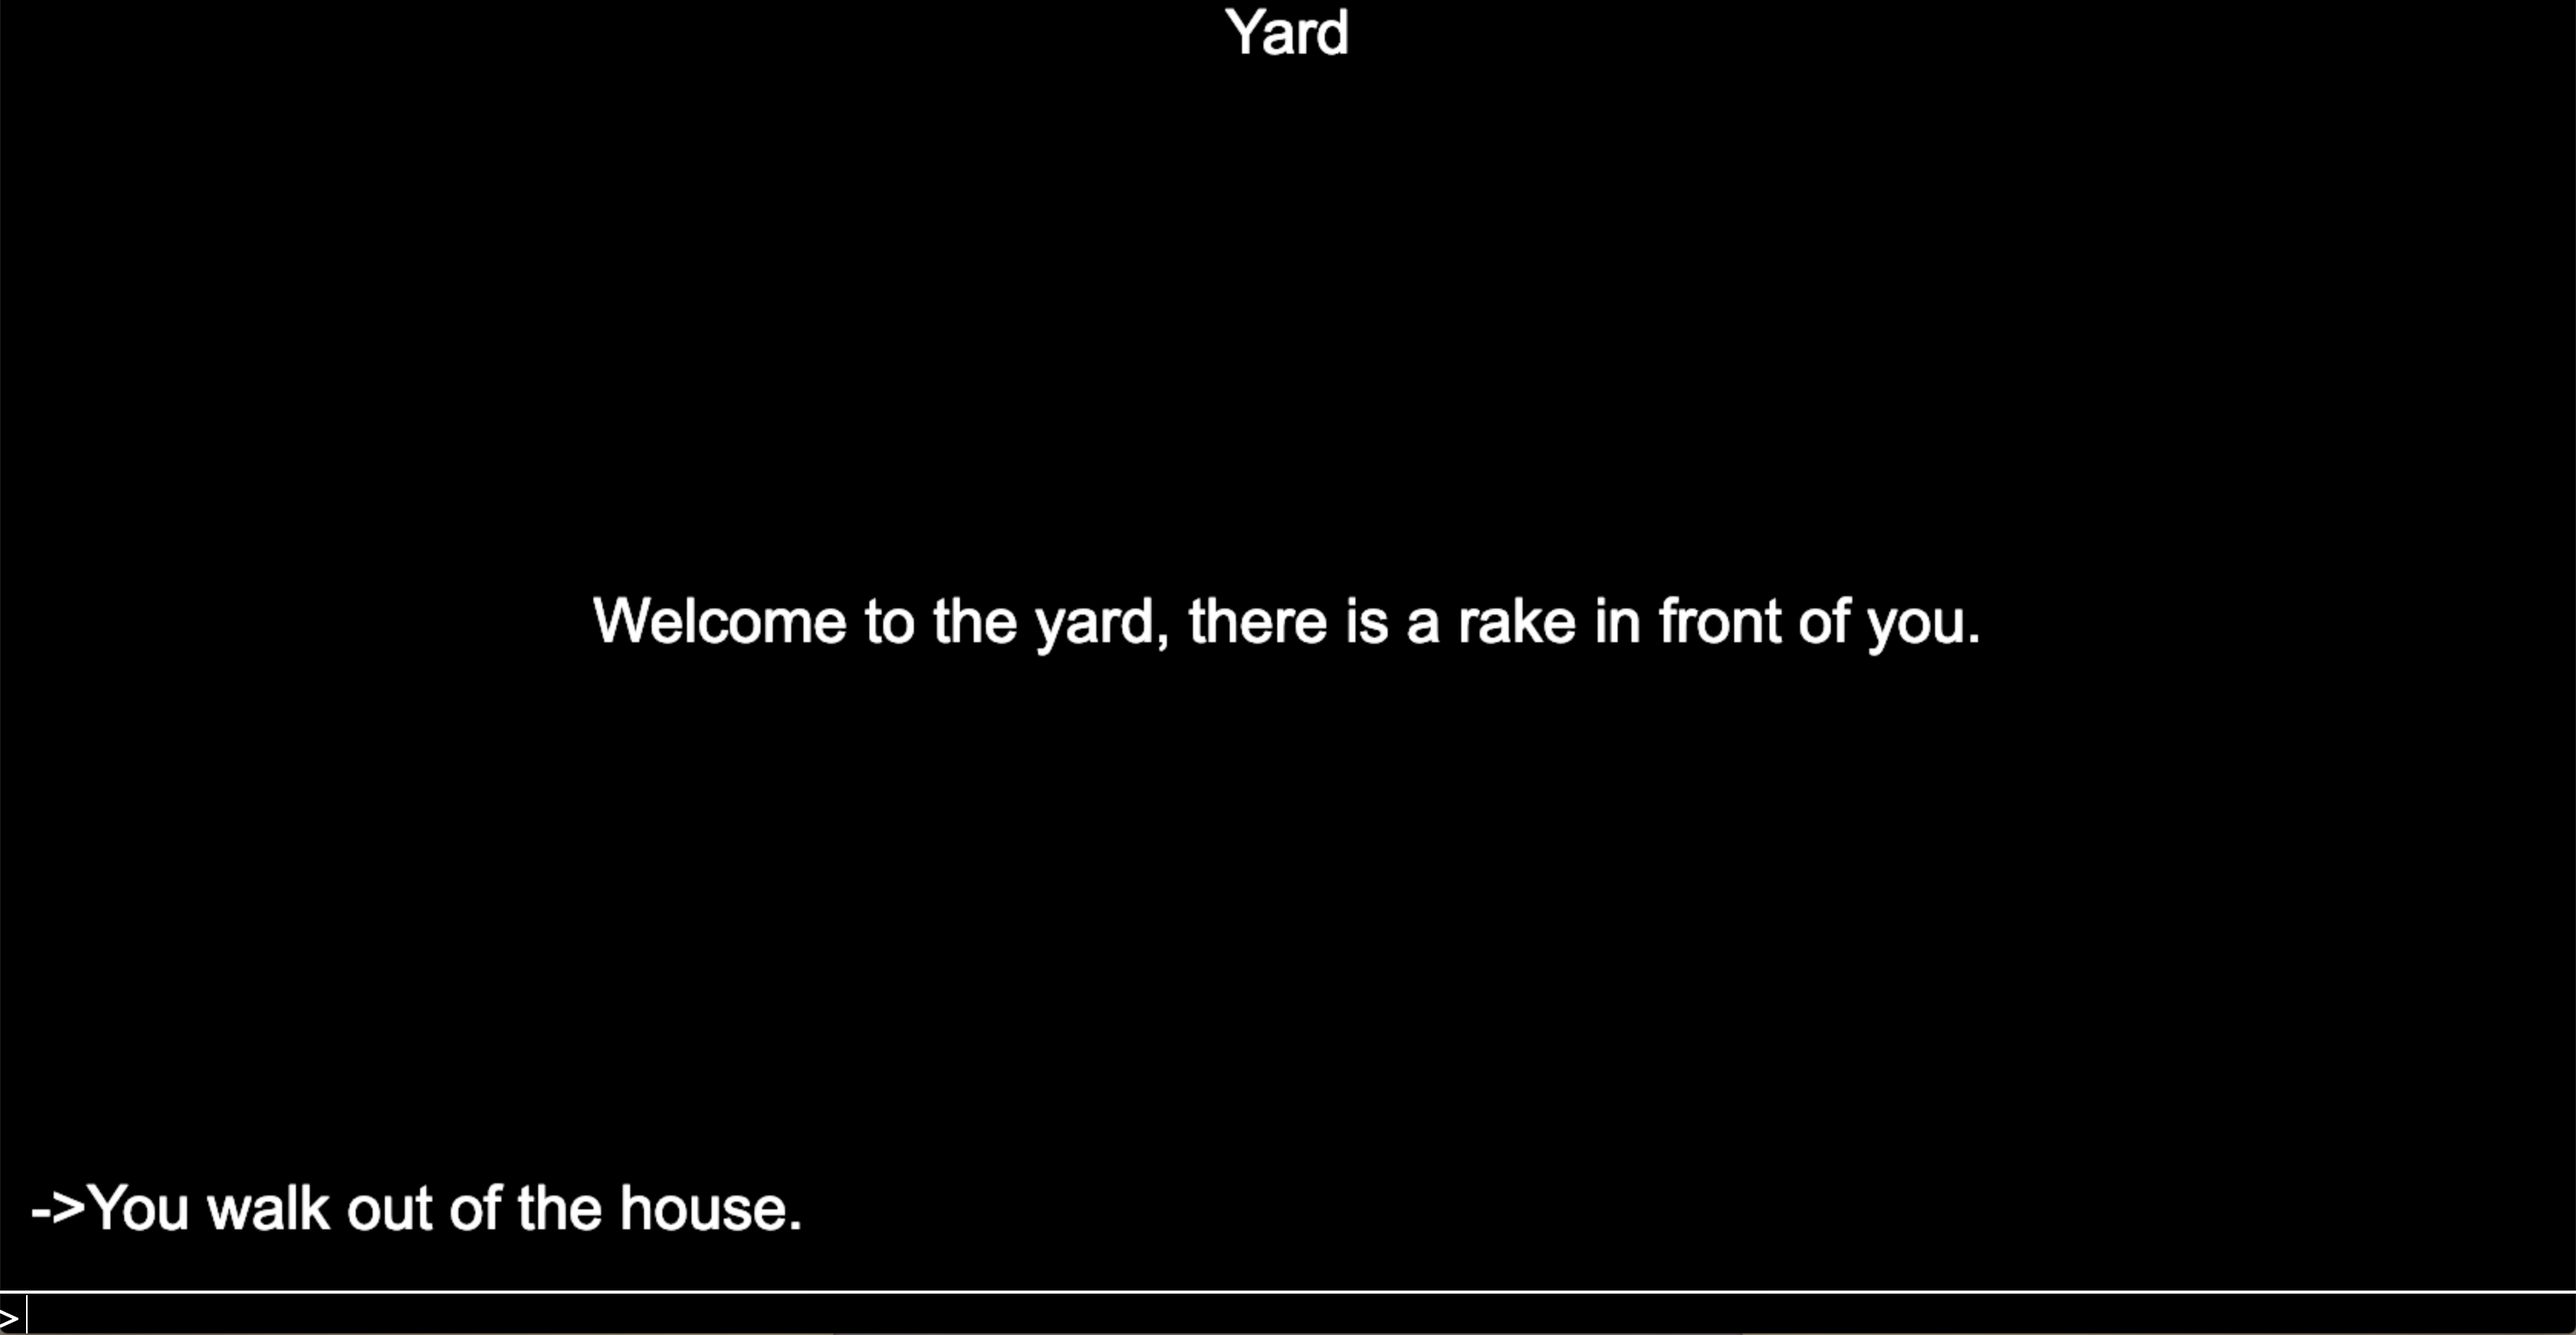
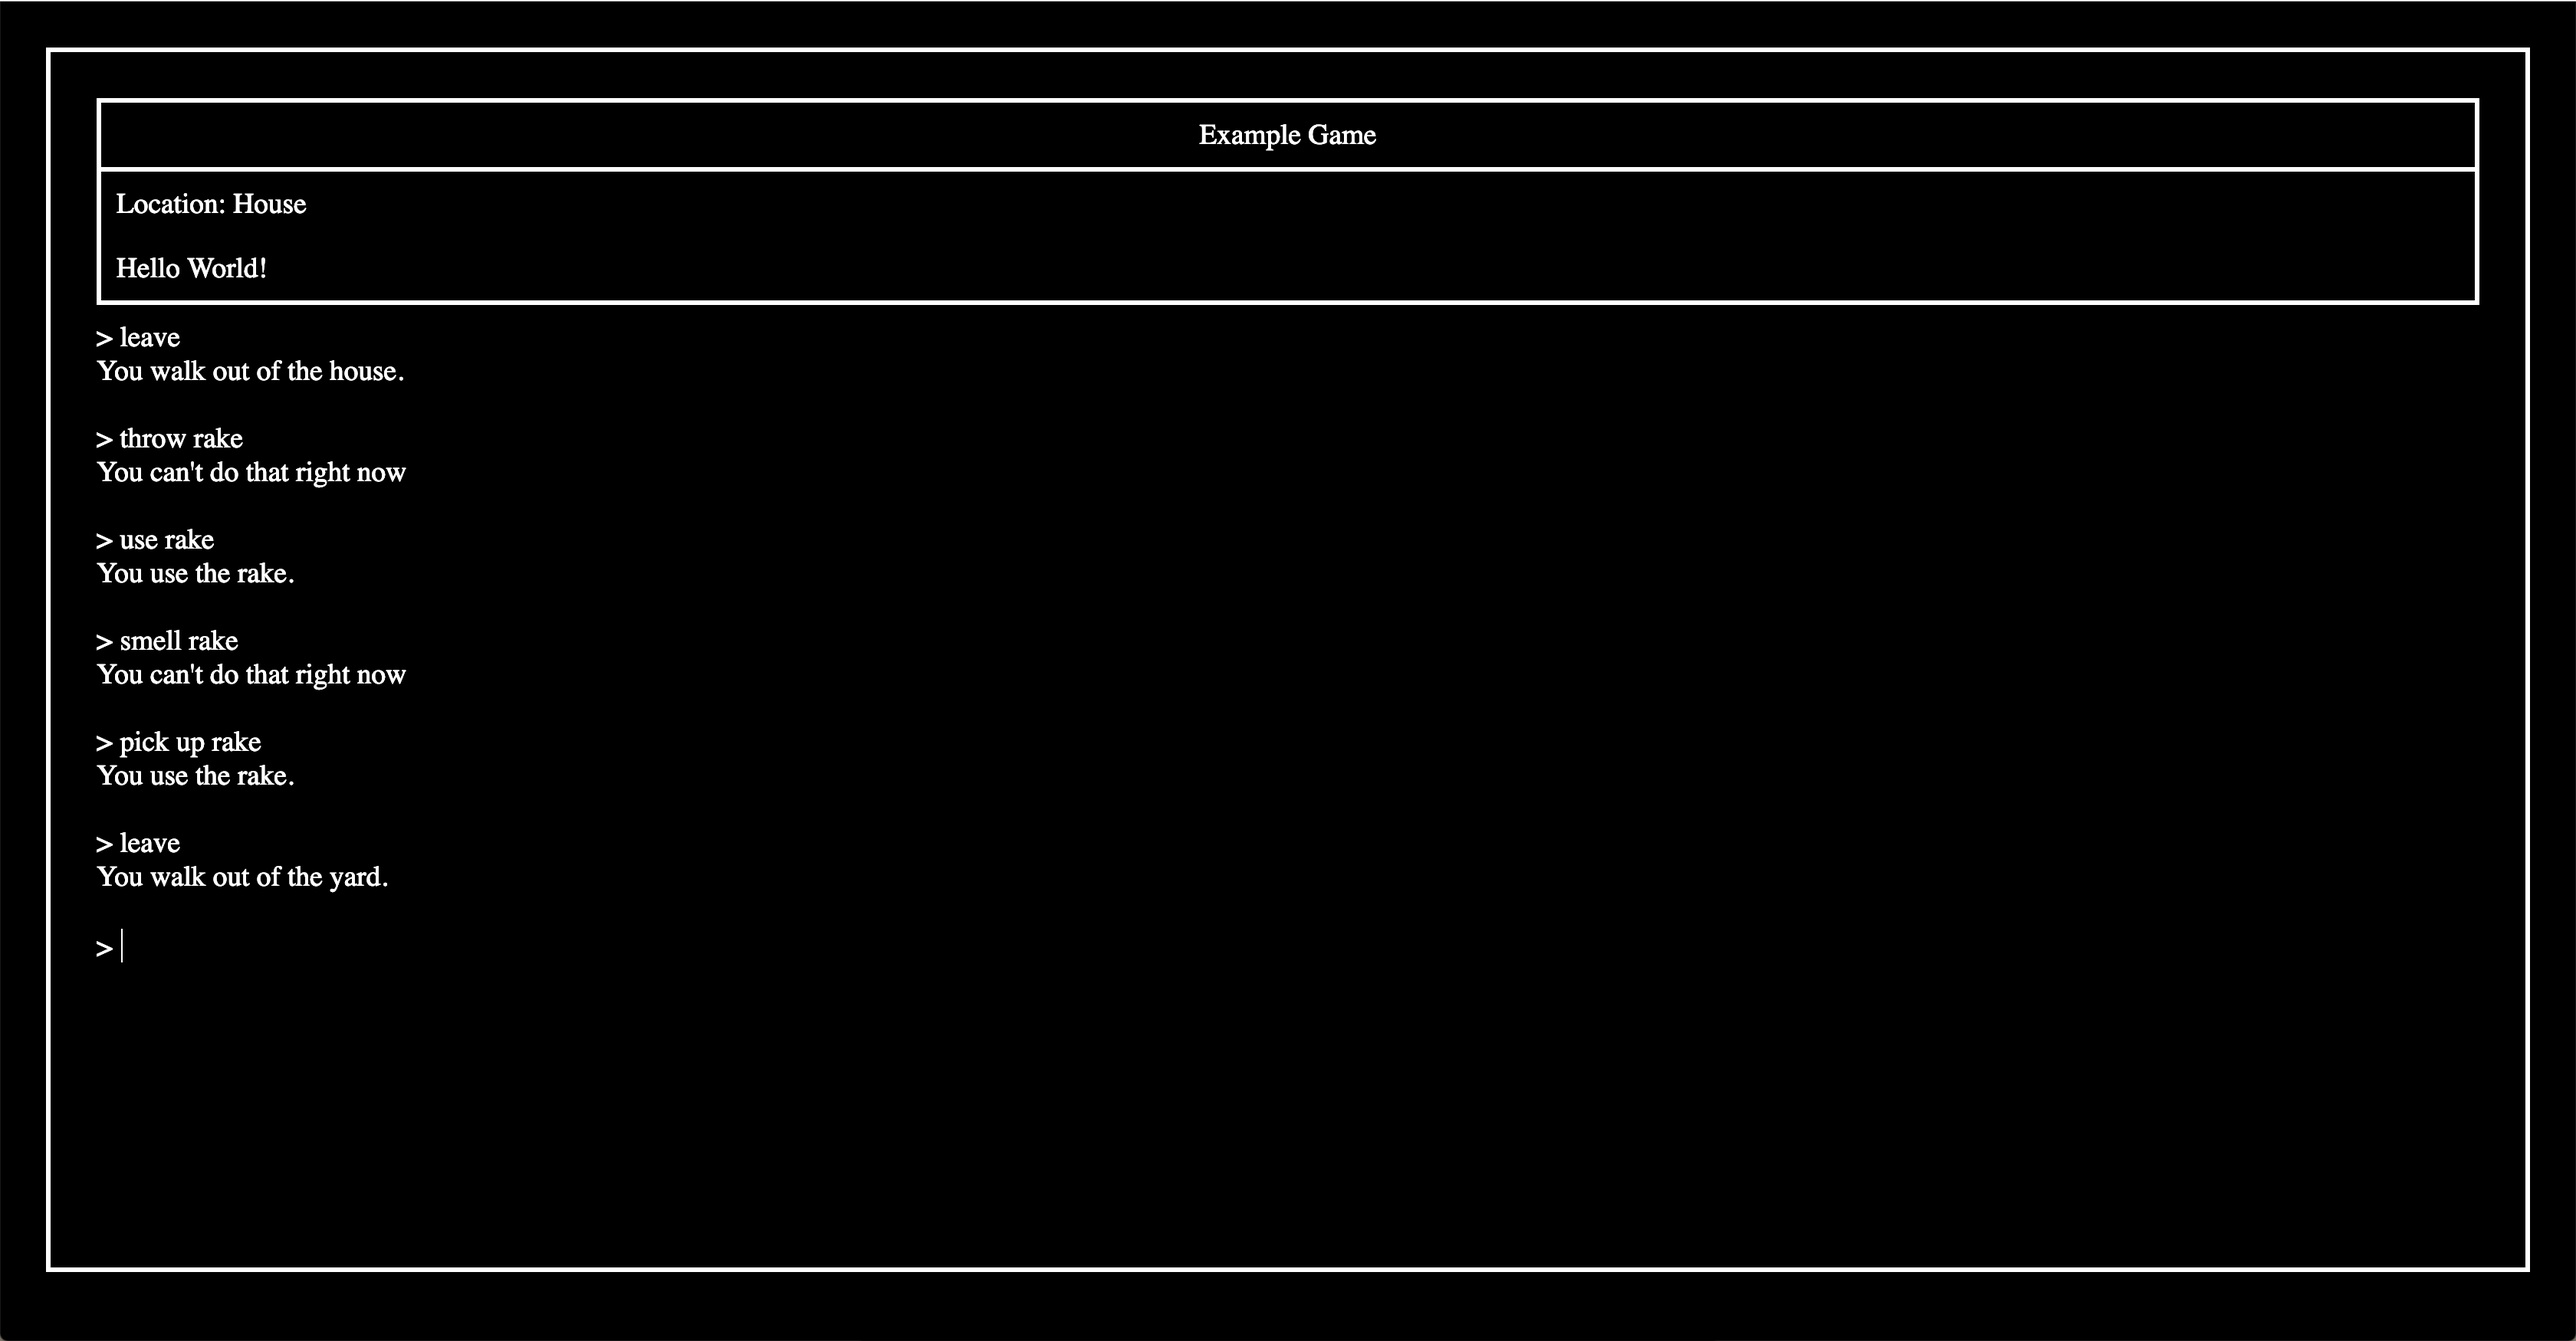
Update the look of the program

diff --git a/example.html b/example.html
@@ -2,44 +2,31 @@
     <title>Luscombe Example Adventure</title>
 </head>
 <body>
-    <canvas id="canvas"></canvas>
-    <div class="line"></div>
-    <div>
-        <span>></span>
-        <input id="console">
+    <div id="content">
+        <div id="gameTitle">
+            Example Game
+        </div>
+        <div id="locationName">
+            Location: House
+        </div>
+        <div id="intro">
+            Hello World!    
+        </div>
+        <div id="log">
+        </div>
+        <div class="inputContainer">
+        <span>></span><input id="console">
+        </div>
     </div>
 </body>
 <script>
 
 var input = document.getElementById('console');
-var canvas = document.getElementById('canvas');
-var ctx = canvas.getContext('2d')
-var done = false;
+var locationName = document.getElementById('locationName');
+var intro = document.getElementById('intro');
+var log = document.getElementById('log');
 
 const ENTER = 13;
-
-canvas.width = getWidth();
-canvas.height = getHeight() - 27;
-
-function getWidth() {
-  return Math.max(
-    document.body.scrollWidth,
-    document.documentElement.scrollWidth,
-    document.body.offsetWidth,
-    document.documentElement.offsetWidth,
-    document.documentElement.clientWidth
-  );
-}
-
-function getHeight() {
-  return Math.max(
-    document.body.scrollHeight,
-    document.documentElement.scrollHeight,
-    document.body.offsetHeight,
-    document.documentElement.offsetHeight,
-    document.documentElement.clientHeight
-  );
-}
 
 function goto(location) {
     currentLocation = location;
@@ -56,7 +43,7 @@ locations = [
 },
 {
     name: 'House',
-    intro: 'Hello World!',
+    intro: "Hello World!",
     actions: {
         leave: ['You walk out of the house.', 0]
     }
@@ -66,25 +53,23 @@ locations = [
 var currentLocation = 1;
 var lastAction = '';
 
-function draw() {
-    ctx.fillStyle = "black";
-    ctx.fillRect(0, 0, getWidth(), getHeight());
+function update() {
+    let node = document.createElement('span');
+    let text1 = document.createTextNode("> " + input.value);
+    let text2 = document.createTextNode(lastAction);
+    let br = document.createElement('br');
+    let br2 = document.createElement('br');
+    let br3 = document.createElement('br');
+    node.appendChild(text1);
+    node.appendChild(br);
+    node.appendChild(text2);
+    log.appendChild(node);
+    log.appendChild(br2);
+    log.appendChild(br3);
+    log.scrollTop = log.scrollHeight;
 
-    ctx.fillStyle = "white";
-    ctx.font = "30pt Arial";
-    ctx.textAlign = "start";
-    ctx.fillText('->' + lastAction, 20, canvas.height - 40);
-    ctx.textAlign = "center";
-    ctx.fillText(locations[currentLocation].name, canvas.width/2, 40);
-    ctx.fillText(locations[currentLocation].intro, canvas.width/2, canvas.height/2);
-}
-
-draw();
-
-window.onresize = function(e) {
-    canvas.width = getWidth();
-    canvas.height = getHeight() - 27;
-    draw();
+    locationName.innerText = "Location: " + locations[currentLocation].name;
+    intro.innerText = locations[currentLocation].intro;
 }
 
 window.onkeydown = function (e) {
@@ -99,40 +84,74 @@ window.onkeydown = function (e) {
         } else if (Object.keys(locations[currentLocation].actions).includes(lastWord)) {
             if(locations[currentLocation].actions[lastWord][1].includes(remainingWords)) {
                 lastAction = locations[currentLocation].actions[lastWord][0];
+            } else {
+                lastAction = 'You can\'t do that right now'
             }
         }
         else {
             lastAction = 'You can\'t do that right now'
         }
+        update();
         input.value = '';
     }
-    draw();
 }
 
 </script>
 <style>
 
-body {
-    margin: 0;
-}
-
-span {
-    background: black;
+#content {
+    background-color: black;
     color: white;
-    font-size: 16pt;
+    padding: 30px;
+    font-size: 14pt;
+    height: 90%;
+    display: flex;
+    flex-direction: column;
+    border: 3px solid white;
+    border: 3px solid white;
 }
 
-div {
-    background: black;
+#gameTitle {
+    flex-shrink: 0;
+    text-align: center;
+    border: 3px solid white;
+    padding: 10px 0px 10px 0px;
+}
+
+#locationName {
+    flex-shrink: 0;
+    padding: 10px 10px 10px 10px;
+    border-left: 3px solid white;
+    border-right: 3px solid white;
+}
+
+#intro {
+    flex-shrink: 0;
+    padding: 10px 10px 10px 10px;
+    border-bottom: 3px solid white;
+    border-left: 3px solid white;
+    border-right: 3px solid white;
+}
+
+#log {
+    margin-top: 10px;
+    overflow-y: auto;
+}
+
+body {
+    padding: 30px;
+    margin: 0;
+    background-color: black; 
 }
 
 input {
+    padding-left: 5px;
     width: 98%;
     resize: none;
     background: black;
     color: white;
-    font-size: 16pt;
     border:none;
+    font-size: 14pt;
 }
 
 input:focus {
@@ -140,14 +159,22 @@ input:focus {
     outline: none;
 }
 
-canvas {
-    width: 100%;
+.inputContainer {
+    flex-shrink: 0;
+    flex-direction: row;
 }
 
-.line {
-    height: 2px;
-    width: 100%;
-    background: white;
+#log::-webkit-scrollbar {
+    width: 1em;
+}
+ 
+#log::-webkit-scrollbar-track {
+    -webkit-box-shadow: inset 0 0 6px rgba(0,0,0,0.3);
+}
+ 
+#log::-webkit-scrollbar-thumb {
+  background-color: white;
+  outline: 1px solid white;
 }
 
 </style>

diff --git a/readme.html b/readme.html
@@ -22,6 +22,8 @@ Examples
 Example Input
 -------------
 ```
+Title: Example Game
+
 # A House location that you can leave
 
 Location: House

diff --git a/README.md b/README.md
@@ -11,6 +11,8 @@ TBD
 WORK IN PROGRESS
 
 ```
+Title: Example Game
+
 # A House location that you can leave
 
 Location: House
